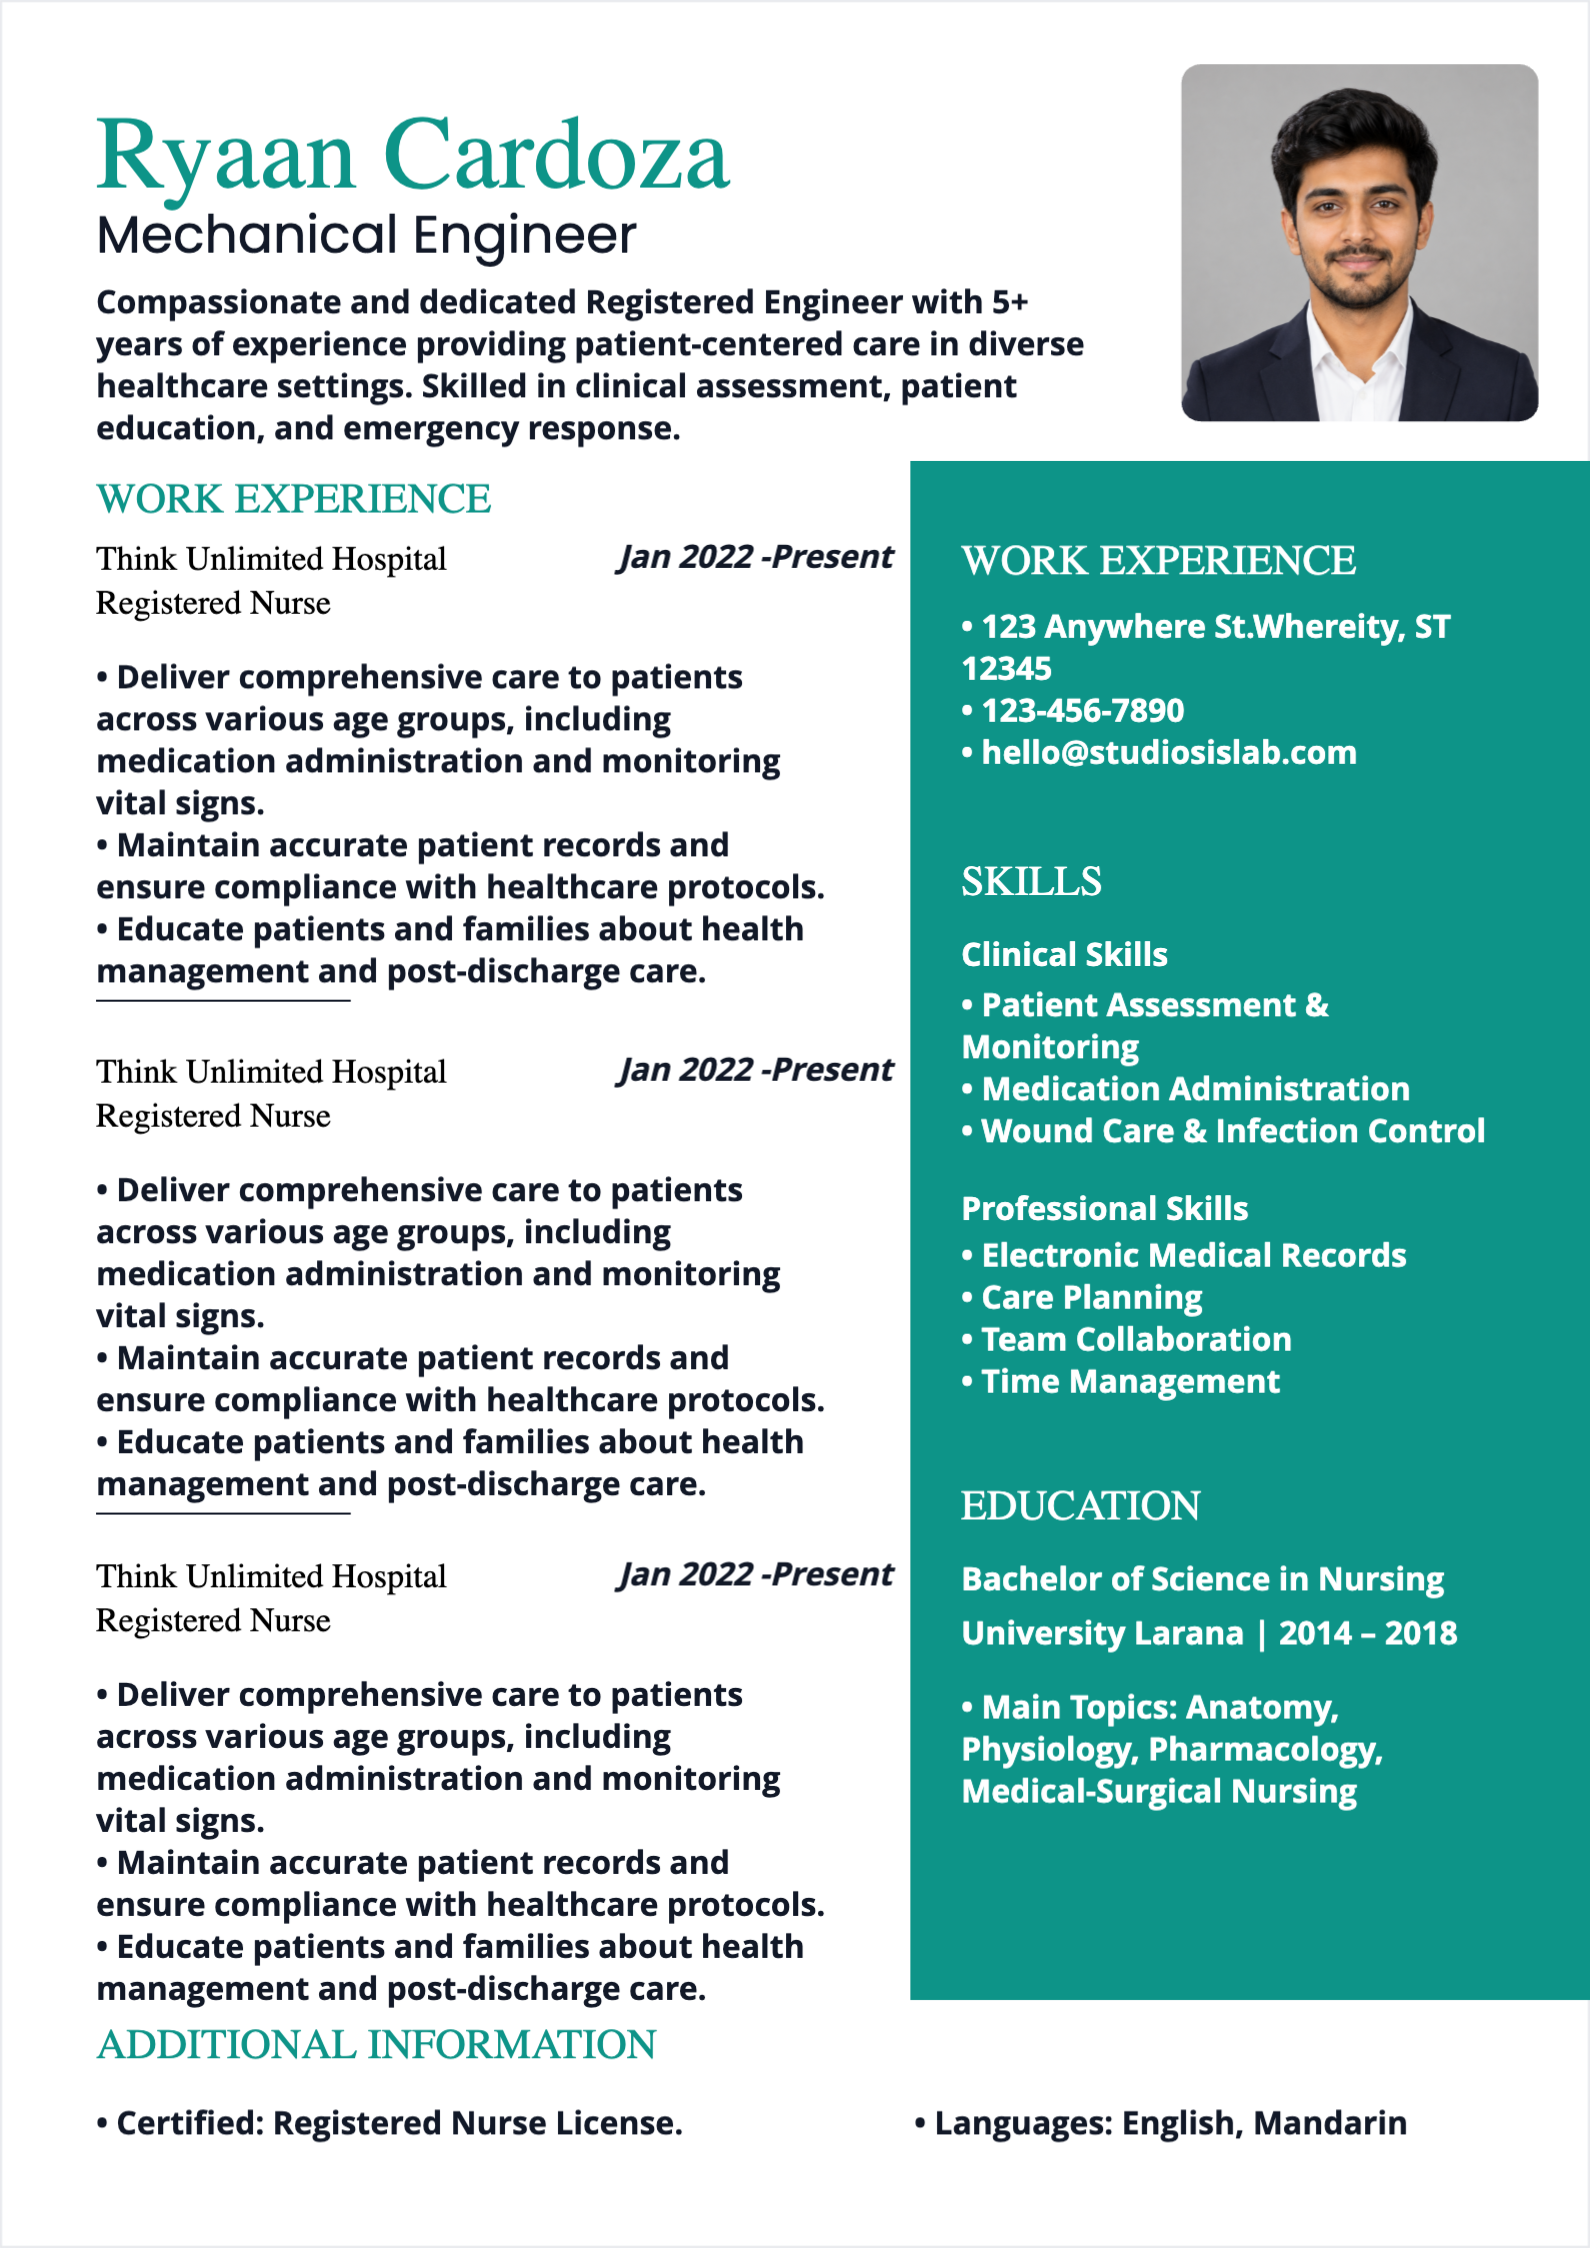
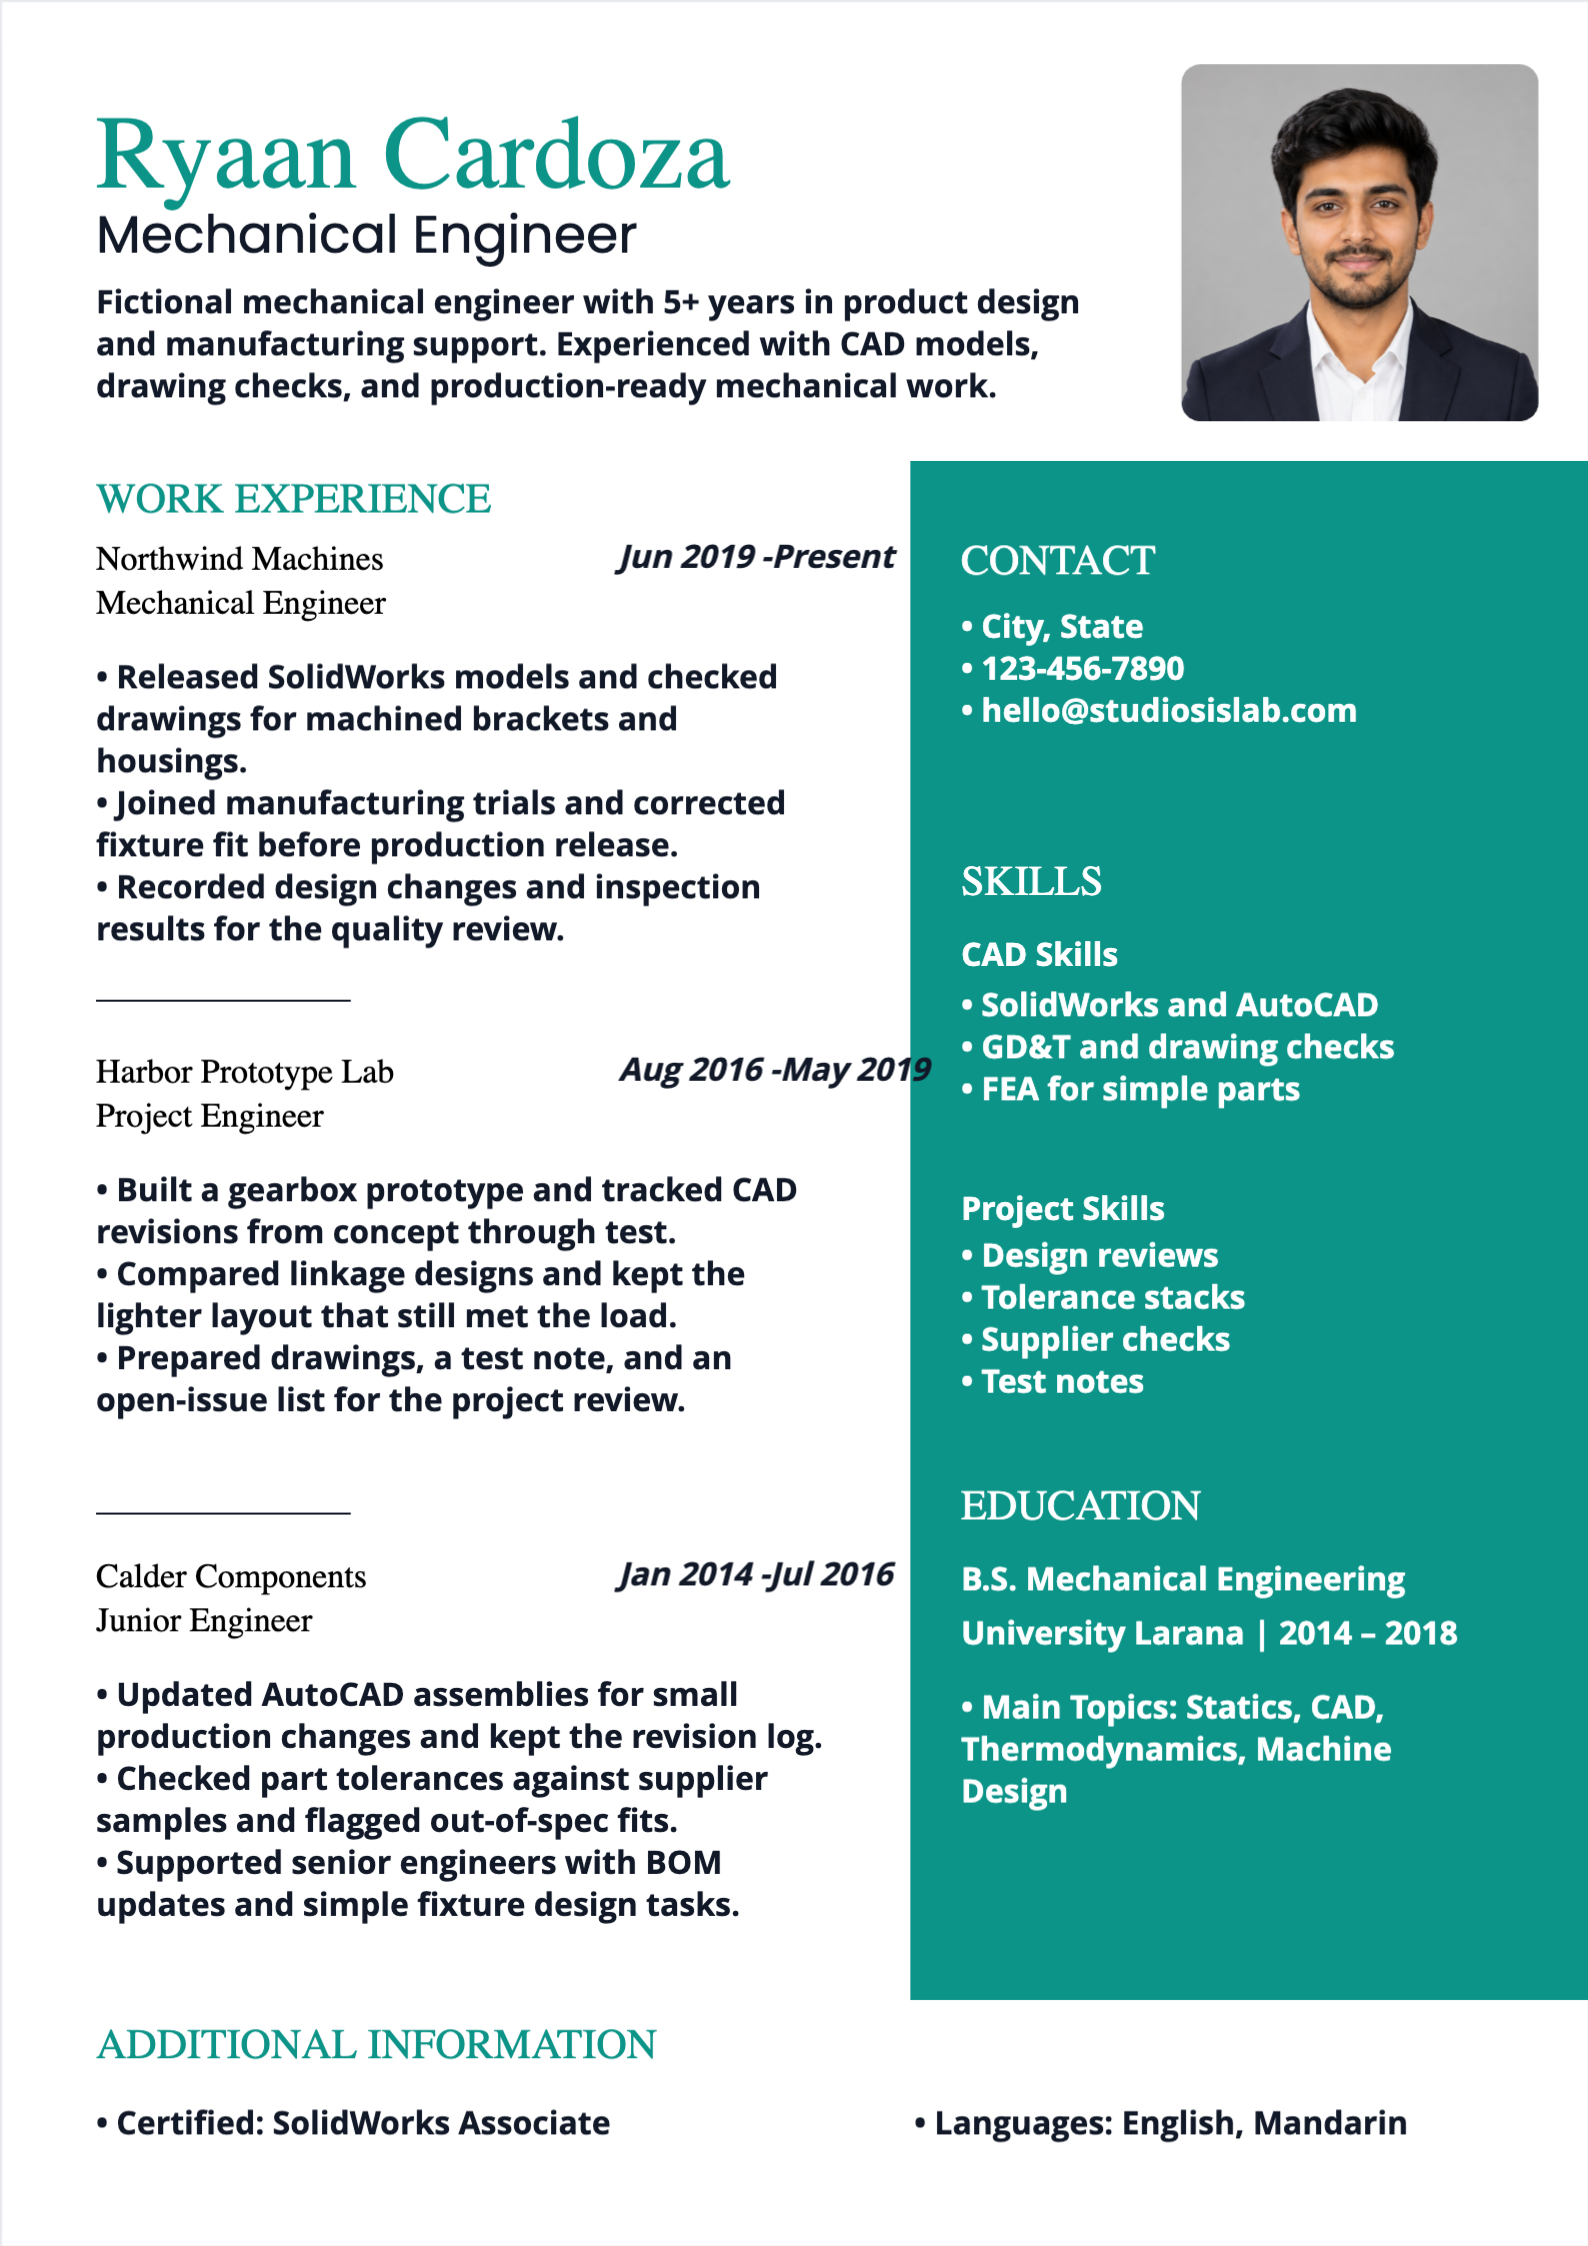
Correct Mechanical Engineer resume sample and previews

diff --git a/src/data/templateSeoContent.ts b/src/data/templateSeoContent.ts
@@ -1756,7 +1756,7 @@ export const TEMPLATE_SEO_CONTENT: TemplateSeoEntry[] = [
       "Mechanical engineer resume template focused on CAD design, manufacturing, engineering projects, quality improvement, and technical documentation.",
     h1: "Mechanical Engineer Resume Template",
     intro:
-      "Mechanical engineer resumes perform best when they connect technical design work to production results. This template helps you present CAD projects, manufacturing collaboration and quality improvement contributions in a structure ATS systems and engineering teams can review efficiently.",
+      "Use this mechanical engineer resume sample as a starting point. Replace the fictional details with your own experience, projects and technical skills.",
     bestFor: [
       "Mechanical engineers working on design, prototyping and production ready product development.",
       "Candidates supporting manufacturing processes, equipment improvements and technical project execution.",
@@ -1772,9 +1772,9 @@ export const TEMPLATE_SEO_CONTENT: TemplateSeoEntry[] = [
     ],
     atsTips: [
       "Use role aligned terms naturally, including CAD, mechanical design, manufacturing support and quality improvement.",
-      "List key software and engineering tools by full names where possible for better ATS matching.",
+      "List key software and engineering tools by full names, such as SolidWorks and AutoCAD.",
       "Include both design and production oriented keywords to reflect full engineering workflow coverage.",
-      "Keep section labels conventional so ATS can parse technical skills and project outcomes accurately.",
+      "Keep section labels clear so technical skills, projects and education stay easy to scan.",
     ],
     writingTips: [
       "Describe engineering decisions with constraints, method and measurable result.",
@@ -1794,9 +1794,9 @@ export const TEMPLATE_SEO_CONTENT: TemplateSeoEntry[] = [
           "State the project goal, your technical contribution and the measurable outcome from your design or process decisions.",
       },
       {
-        question: "Are technical documentation skills important for ATS matching?",
+        question: "Should technical documentation appear on a mechanical engineering resume?",
         answer:
-          "Yes. Many roles screen for documentation, specification writing and communication of design changes.",
+          "Yes, when it is part of the work. This sample includes drawing checks, revision records and test notes with the design work.",
       },
     ],
     relatedTemplateIds: ["t064", "t061", "t060"],
